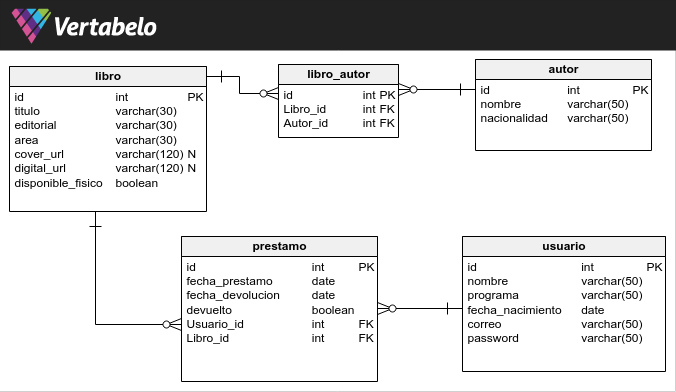
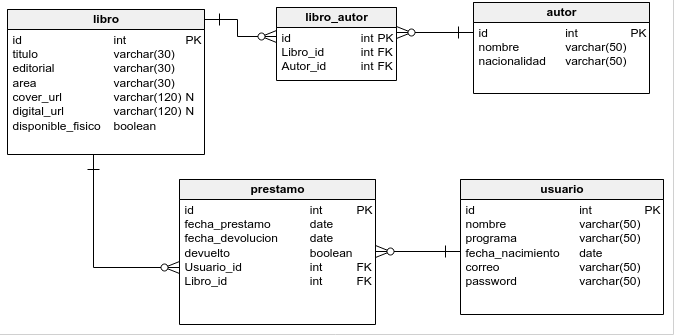
update image

diff --git a/docs/source/fundamentos.rst b/docs/source/fundamentos.rst
@@ -9,11 +9,12 @@ Diseño de la base de datos
 
 La actividad propone una base de datos relacional, he aquí la representación con el modelo Entidad-Relación
 
-__Fig.1__
-![Db](https://raw.githubusercontent.com/uzi200/biblioteca-django/master/dise%C3%B1o_db.png)
 
-El gestor de base de datos que se utilizara  para el proyecto sera PostgreSQL 9.x  [Ver código SQL](https://github.com/uzi200/biblioteca-django/blob/master/script_db.sql) 
+.. image:: https://raw.githubusercontent.com/uzi200/biblioteca-django/master/dise%C3%B1o_db.png
 
+El gestor de base de datos que se utilizara  para el proyecto sera PostgreSQL 9.x  Ver código SQL_
+
+https://github.com/uzi200/biblioteca-django/blob/master/script_db.sql
 
 ¿Que es Python?
 ----------------
